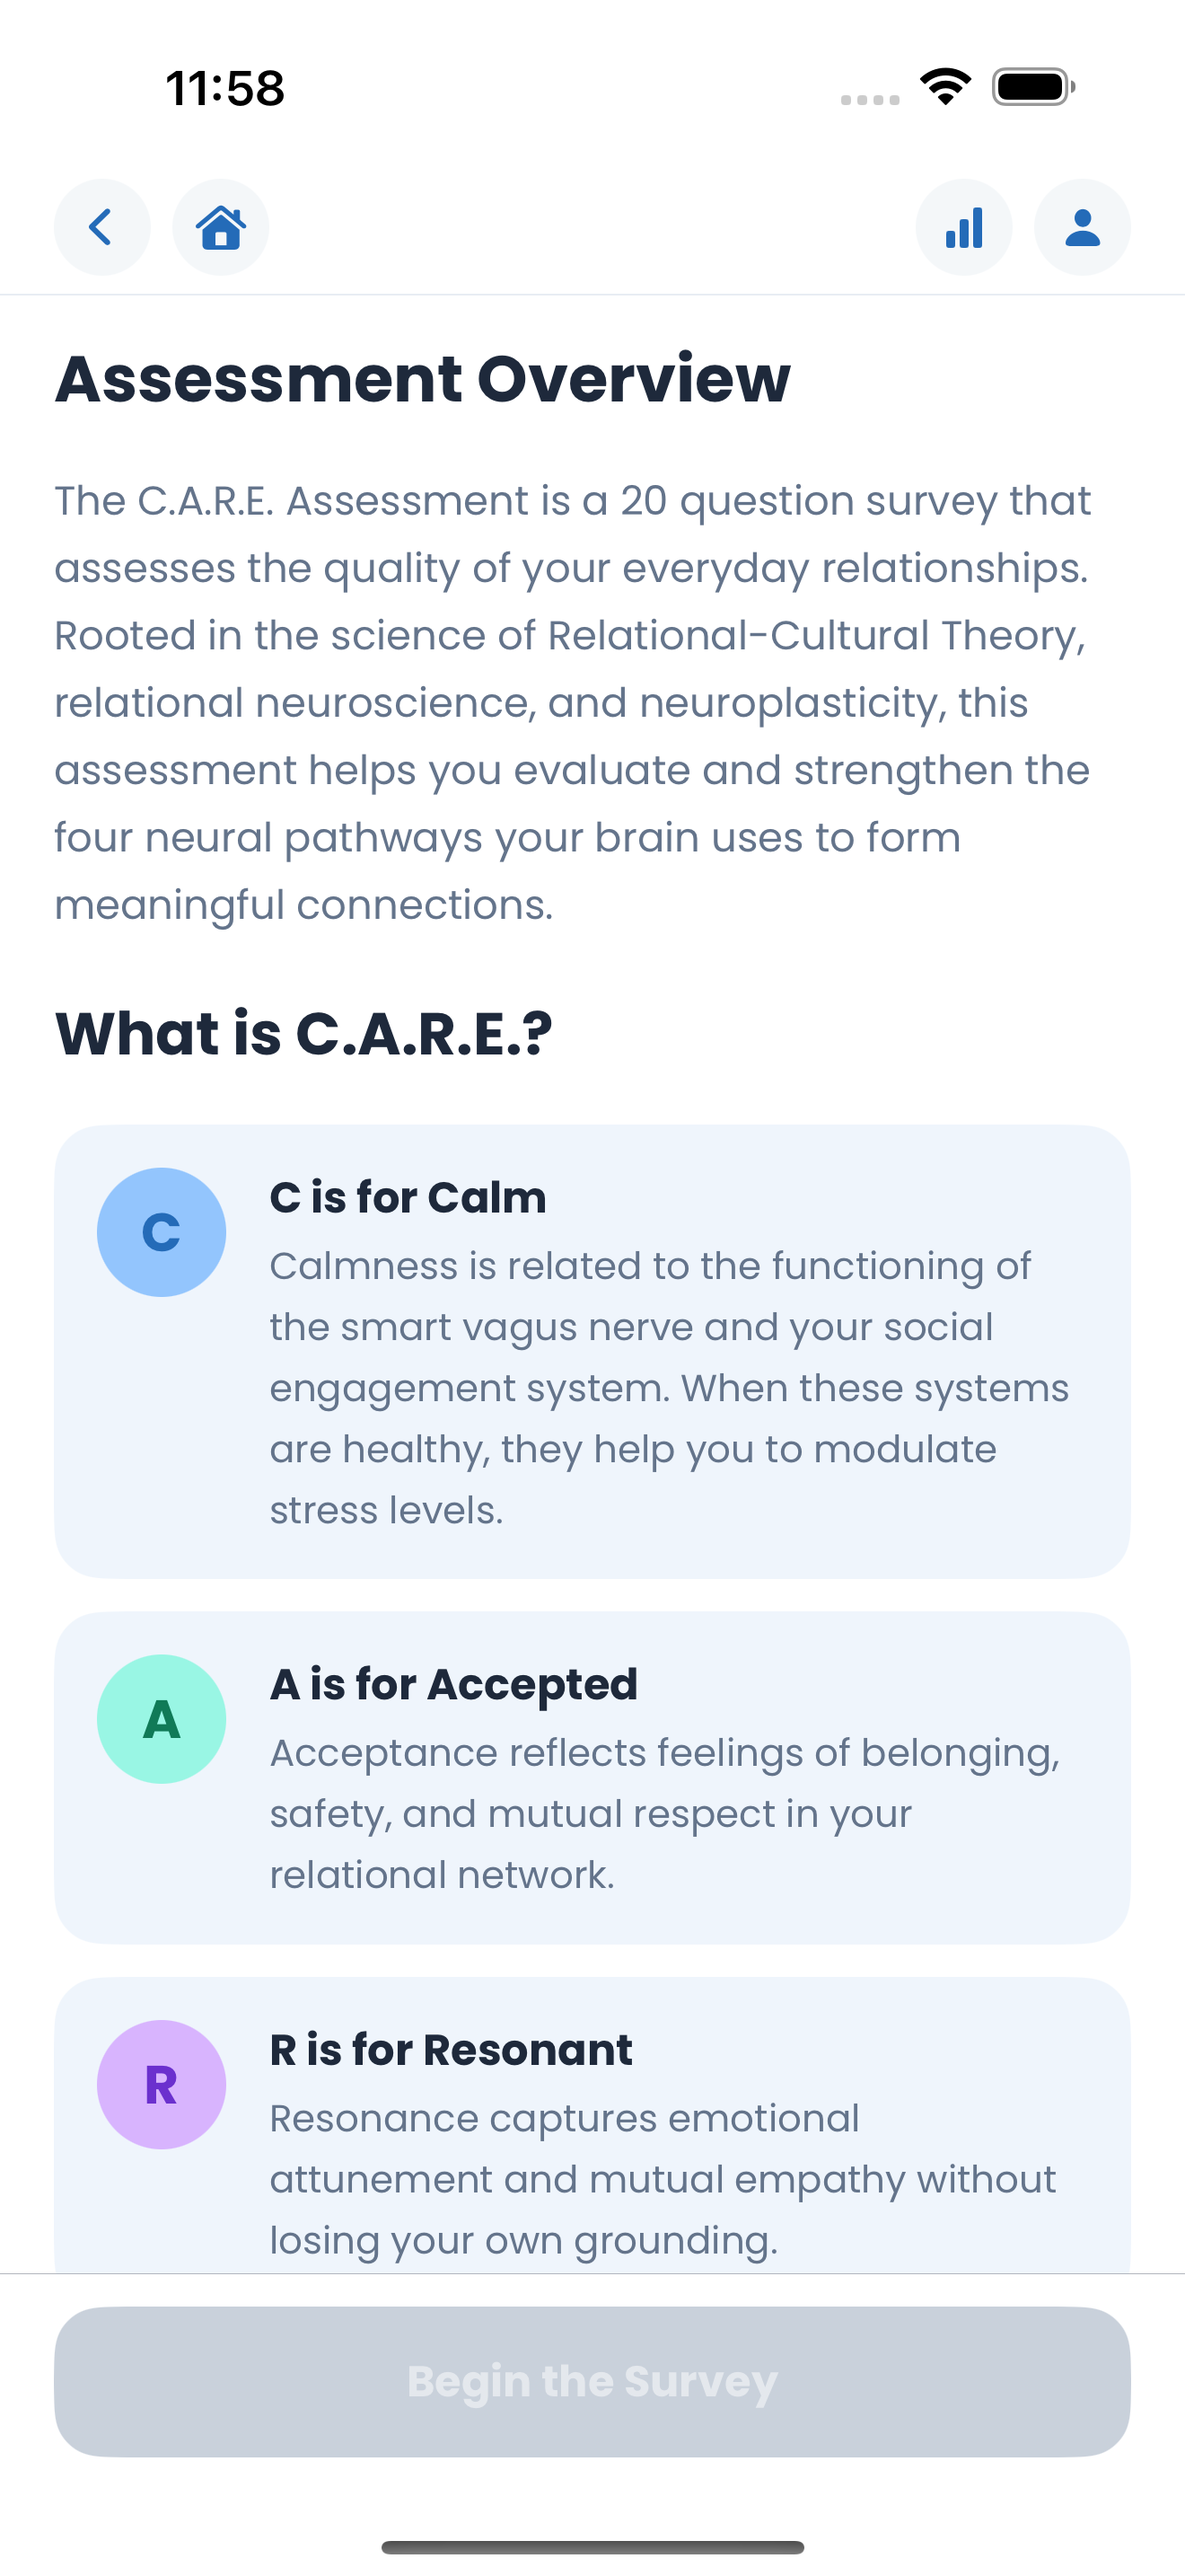
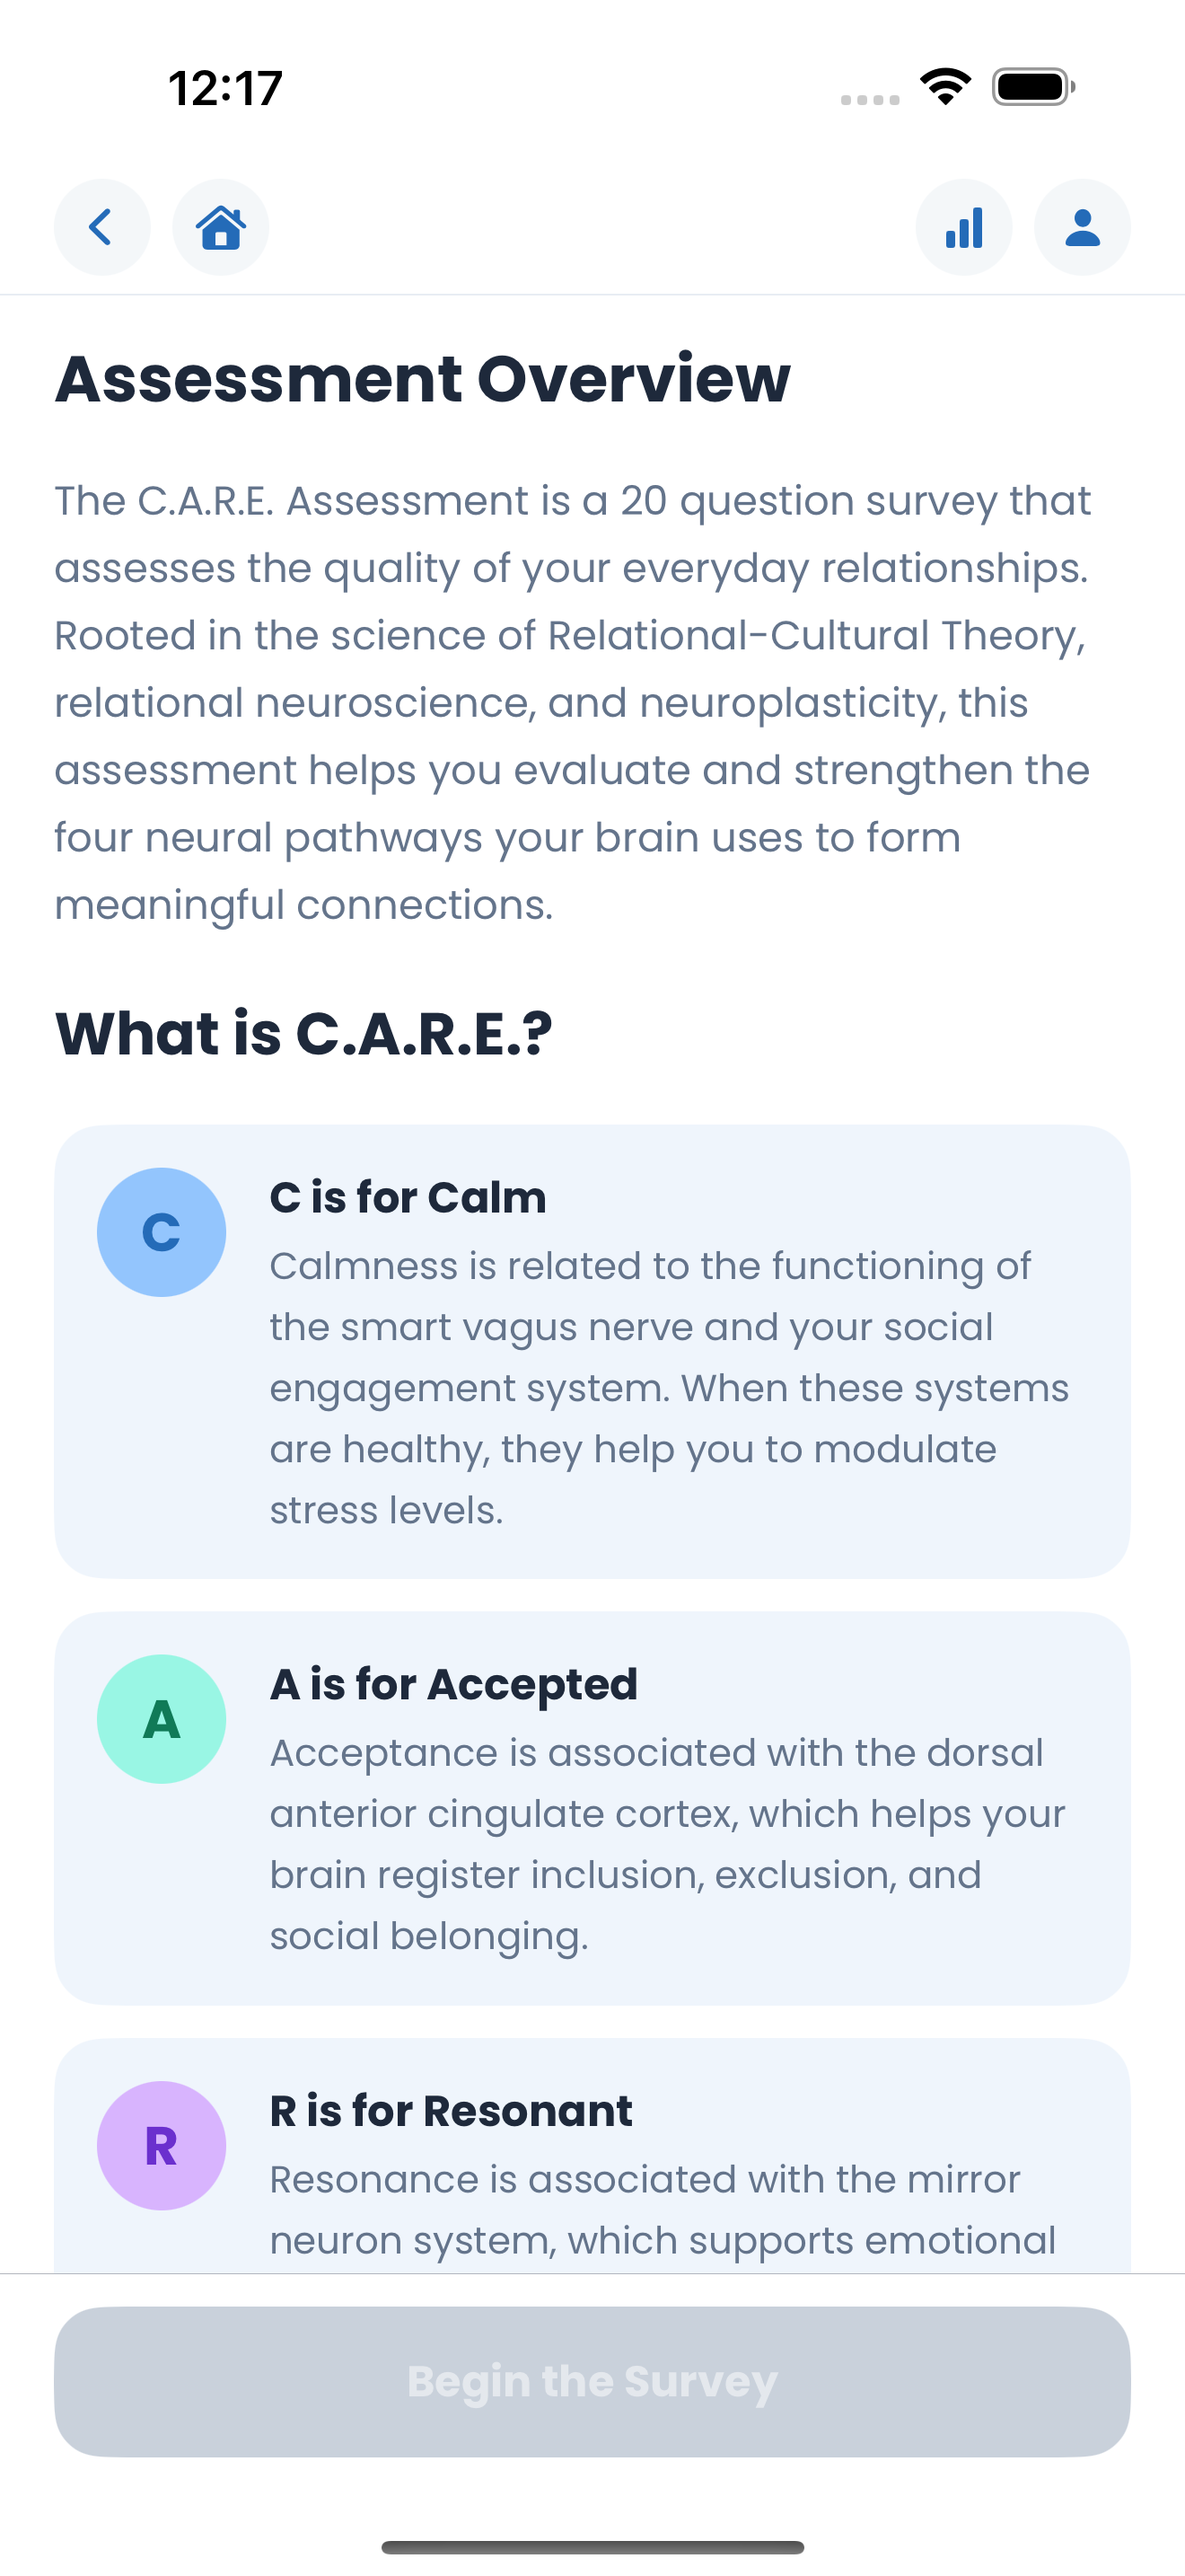
Name CARE neural pathways in overview and exercises

Changed region(s): [[0.2174, 0.6517, 0.9008, 0.8999], [0.0621, 0.7758, 0.1864, 0.8689], [0.1553, 0.031, 0.2485, 0.0621]]

diff --git a/ios/CAREApp/Views/ExercisesView.swift b/ios/CAREApp/Views/ExercisesView.swift
@@ -43,7 +43,7 @@ public struct ExercisesView: View {
                         ExercisePathwayCard(
                             letter: "C",
                             title: "Calm",
-                            description: "Fosters down-regulation of stress systems, developing neural pathways toward safety and emotional grounding.",
+                            description: "Supports the smart vagus nerve, helping down-regulate stress and strengthen safety and grounding.",
                             color: ExerciseCategory.calm.accentColor,
                             badgeColor: ExerciseCategory.calm.badgeColor,
                             action: { router.navigate(to: .calmExercises) }
@@ -52,7 +52,7 @@ public struct ExercisesView: View {
                         ExercisePathwayCard(
                             letter: "A",
                             title: "Accepted",
-                            description: "Feeling valued, validated, and safely connected within healthy, supportive relationship cultures.",
+                            description: "Supports the dorsal anterior cingulate cortex, reinforcing belonging, safety, and mutual respect.",
                             color: ExerciseCategory.accepted.accentColor,
                             badgeColor: ExerciseCategory.accepted.badgeColor,
                             action: { router.navigate(to: .acceptedExercises) }
@@ -61,7 +61,7 @@ public struct ExercisesView: View {
                         ExercisePathwayCard(
                             letter: "R",
                             title: "Resonant",
-                            description: "Activating mirror neurons to sense and dynamically align with another's emotional state without losing yourself.",
+                            description: "Supports the mirror neuron system, helping you attune to others’ emotions without losing yourself.",
                             color: ExerciseCategory.resonant.accentColor,
                             badgeColor: ExerciseCategory.resonant.badgeColor,
                             action: { router.navigate(to: .resonantExercises) }
@@ -70,7 +70,7 @@ public struct ExercisesView: View {
                         ExercisePathwayCard(
                             letter: "E",
                             title: "Energetic",
-                            description: "The vitalizing emotional flow and neurochemical boost generated through growth-fostering, mutual bonds.",
+                            description: "Supports the dopamine reward system, helping healthy bonds feel motivating, rewarding, and energizing.",
                             color: ExerciseCategory.energetic.accentColor,
                             badgeColor: ExerciseCategory.energetic.badgeColor,
                             action: { router.navigate(to: .energeticExercises) }

diff --git a/ios/CAREApp/Models/SurveyQuestions.swift b/ios/CAREApp/Models/SurveyQuestions.swift
@@ -30,11 +30,11 @@ public enum CAREDomain: String, CaseIterable, Codable, Hashable, Sendable {
         case .calm:
             return "Calmness is related to the functioning of the smart vagus nerve and your social engagement system. When these systems are healthy, they help you to modulate stress levels."
         case .accepted:
-            return "Acceptance reflects feelings of belonging, safety, and mutual respect in your relational network."
+            return "Acceptance is associated with the dorsal anterior cingulate cortex, which helps your brain register inclusion, exclusion, and social belonging."
         case .resonant:
-            return "Resonance captures emotional attunement and mutual empathy without losing your own grounding."
+            return "Resonance is associated with the mirror neuron system, which supports emotional attunement and empathy without losing your own grounding."
         case .energetic:
-            return "Energy describes the vitality, motivation, and positive arousal derived from growth-fostering social bonds."
+            return "Energy is associated with the dopamine reward system, which helps growth-fostering social bonds feel motivating, rewarding, and energizing."
         }
     }
     

diff --git a/ios/CAREAppUITests/CAREAppUITests.swift b/ios/CAREAppUITests/CAREAppUITests.swift
@@ -309,14 +309,14 @@ final class CAREAppUITests: XCTestCase {
         captureStoreScreenshot("04-past-results")
         require(app.buttons["AppIcon_home"]).tap()
 
-        require(app.buttons["Exercises"]).tap()
-        require(app.staticTexts["Daily Exercise"])
-        captureStoreScreenshot("05-exercises")
-        require(app.buttons["AppIcon_home"]).tap()
-
         require(app.buttons["Education"]).tap()
         require(app.staticTexts["Education"])
         captureStoreScreenshot("06-education")
+        require(app.buttons["AppIcon_home"]).tap()
+
+        require(app.buttons["Exercises"]).tap()
+        require(app.staticTexts["Daily Exercise"])
+        captureStoreScreenshot("05-exercises")
     }
 
     func testSurveyRelationshipBreakdownInfoOpensRiskGroups() {

diff --git a/docs/adr/0011-assessment-updates-and-exercises-import-architecture.md b/docs/adr/0011-assessment-updates-and-exercises-import-architecture.md
@@ -327,10 +327,10 @@ VStack(spacing: 0) {
   - Title: `"Exercises"` (Poppins Bold 30pt).
   - Subtitle: `"Strengthen your relational neural pathways"`
   - 4 Pathway Cards:
-    1. **Calm (C)**: "Fosters down-regulation of stress systems, developing neural pathways toward safety and emotional grounding."
-    2. **Accepted (A)**: "Feeling valued, validated, and safely connected within healthy, supportive relationship cultures."
-    3. **Resonant (R)**: "Activating mirror neurons to sense and dynamically align with another's emotional state without losing yourself."
-    4. **Energetic (E)**: "The vitalizing emotional flow and neurochemical boost generated through growth-fostering, mutual bonds."
+    1. **Calm (C)**: "Supports the smart vagus nerve, helping down-regulate stress and strengthen safety and grounding."
+    2. **Accepted (A)**: "Supports the dorsal anterior cingulate cortex, reinforcing belonging, safety, and mutual respect."
+    3. **Resonant (R)**: "Supports the mirror neuron system, helping you attune to others’ emotions without losing yourself."
+    4. **Energetic (E)**: "Supports the dopamine reward system, helping healthy bonds feel motivating, rewarding, and energizing."
   - Bottom Action: Pinned `"Unlock Full Book Exercises"` dark navy button (`#1E293B`, 56pt) navigating to `PersonalizedActionPlanView`.
 * **Architecture & State**:
   - Create `ExercisesView.swift` under `ios/CAREApp/Views/`.
@@ -530,4 +530,3 @@ The following open questions are documented to facilitate product, design (Jayme
 * **Context**: Directive #15 optimized `SurveyQuestionView` typography (15.5pt header, 13pt options) and removed padding so the entire view fits on a single screen without scrolling on iPhone 16 Pro (393x852).
 * **Open Questions**:
   1. On smaller legacy form factors such as iPhone SE (375x667), the pinned bottom bar and question options will require scrolling. Is standard vertical scrolling on compact devices acceptable, or should dynamic spacing scale down on smaller viewports?
-

diff --git a/fastlane/README.md b/fastlane/README.md
@@ -39,6 +39,14 @@ Increment the TestFlight build number, archive, and upload to TestFlight
 
 Upload an already exported IPA to TestFlight
 
+### ios upload_screenshots
+
+```sh
+[bundle exec] fastlane ios upload_screenshots
+```
+
+Replace the English App Store screenshots without changing metadata or submitting for review
+
 ----
 
 This README.md is auto-generated and will be re-generated every time [_fastlane_](https://fastlane.tools) is run.
